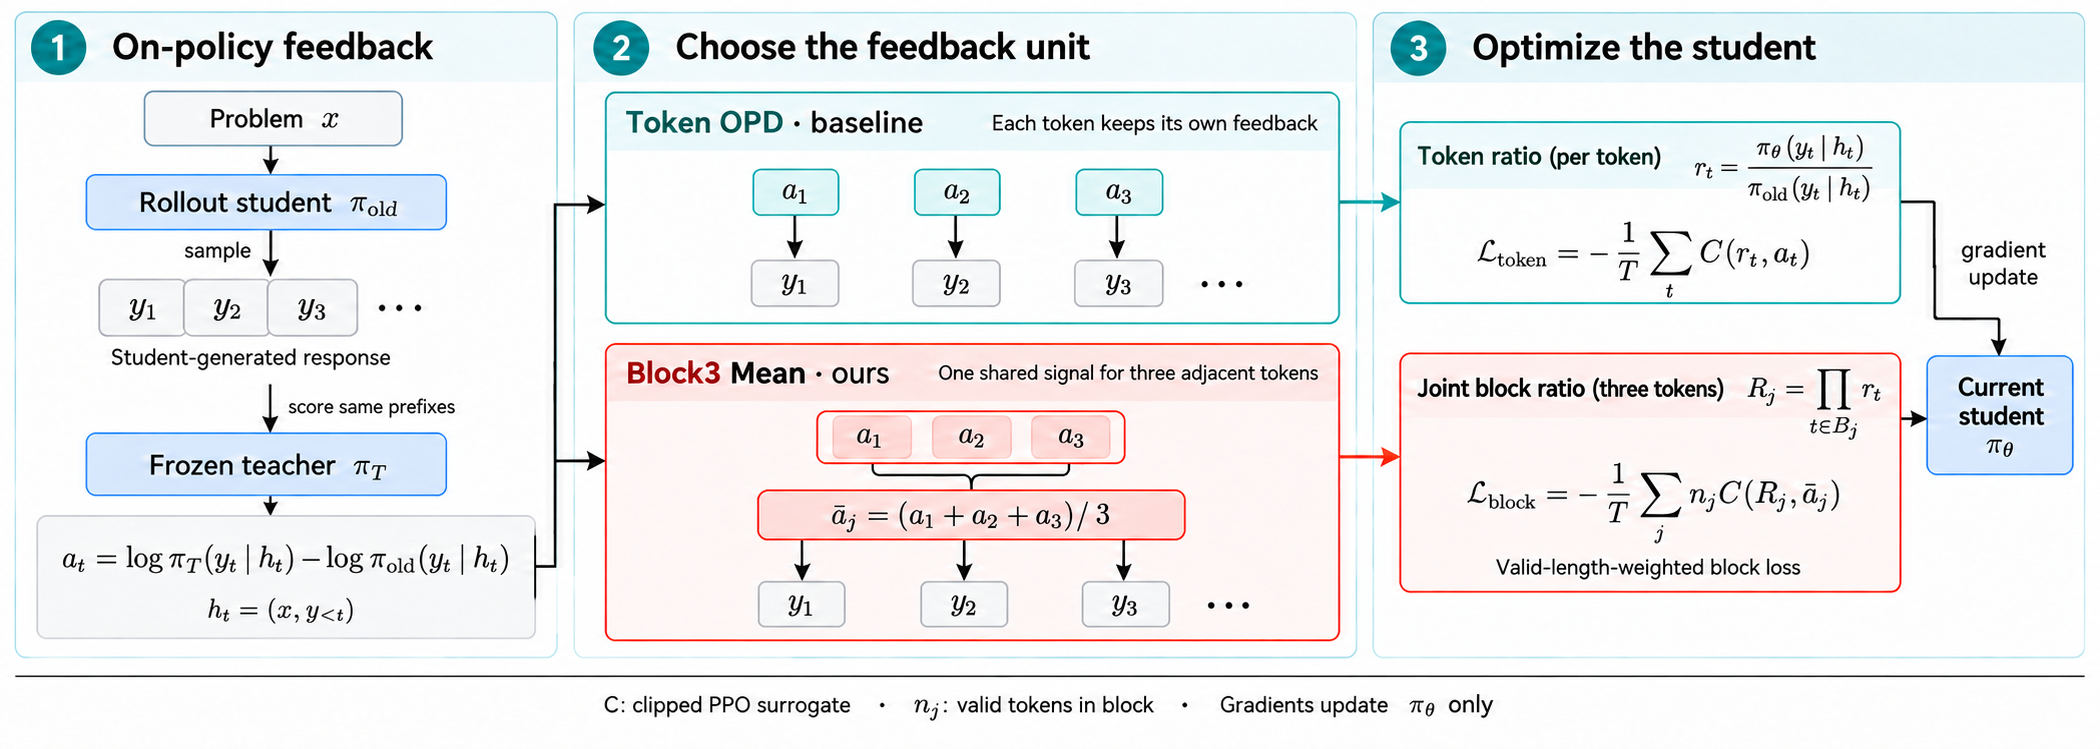
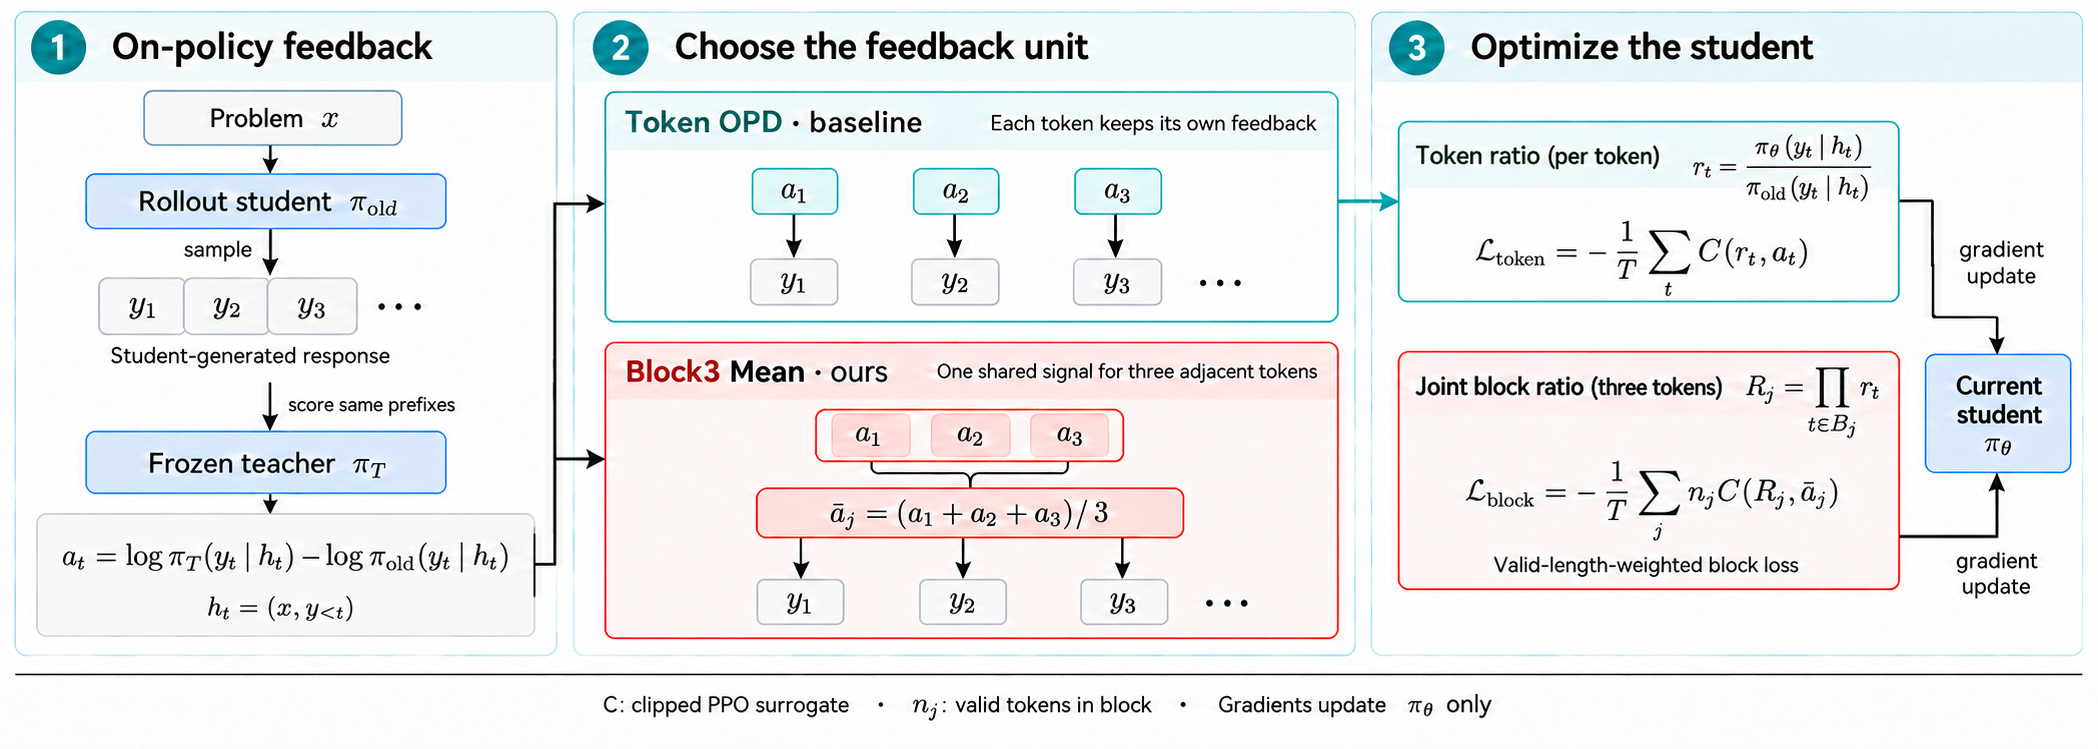
docs: label block gradient update in existing figure one

diff --git a/paper/iclr2027/internal/figure_provenance.md b/paper/iclr2027/internal/figure_provenance.md
@@ -9,9 +9,11 @@
 但没有复制其自教师或privileged-context机制：本研究使用独立冻结教师。
 中心画出逐token独立反馈与三token均值共享的区别，右侧保留联合ratio及有效长度加权loss。
 图注注明两种目标分开训练、反馈停止梯度、mask尾块以及完整轨迹采样后更新。
-生成使用内置OpenAI image_gen，进行了两次针对性连线/标签修正；最终检查公式、token数量、
+生成使用内置OpenAI image_gen，进行了三次针对性连线/标签修正；最终检查公式、token数量、
 箭头来源、标签边界和论文缩放后的可读性。图中不包含性能数字或效率提升主张。
 本次提示词规范记录在`internal/figure1_redesign_20260926.md`。
+第三次修正直接补齐Block3到当前学生连线的`gradient update`标注，与Token分支对称，
+只调整该连线路径以容纳文字。现有图、双语PDF及源码包原位更新，没有新增交付版本目录。
 所有性能曲线、训练曲线、热图与表必须从实际数据程序化生成，不使用图像模型造数。
 
 scientific-schematics脚本需要未配置的OpenRouter凭证，概念图改用当前可用图像生成工具。

diff --git a/paper/iclr2027/internal/figure1_redesign_20260926.md b/paper/iclr2027/internal/figure1_redesign_20260926.md
@@ -26,6 +26,10 @@
 Per-token feedback标签。保留所有数学符号及其他结构。最终图使用同一英文数学标记，
 中英文正文各自提供对应图注；旧交付PDF不覆盖，新PDF放入20260926图1更新目录。
 
+用户随后指出Block3到学生的连线缺少与Token分支对应的标注。第三次局部修改只将
+该短箭头改为从block loss右侧进入学生框底部的折线，补上相同的`gradient update`，
+避免文字重叠；其余布局和公式不变。20260926目录中的现有图、PDF和源码包原位覆盖更新。
+
 ## 科学含义检查
 
 - 教师不产生学生的rollout；无privileged information输入。

diff --git a/docs/results/2026-09-26-paper-figure1-redesign.md b/docs/results/2026-09-26-paper-figure1-redesign.md
@@ -29,3 +29,6 @@
 包含英文PDF、中文PDF、图1PNG、匿名源码ZIP及SHA-256清单；9月23日交付不覆盖。
 Windows路径：`\\wsl.localhost\Ubuntu\home\tyf\paper\outputs\iclr2027_20260926_figure1`。
 最近100步实验及正在运行的消融尚未纳入该PDF。
+
+同日按用户反馈补齐Block3分支到当前学生的`gradient update`标签，仅局部调整右侧连线，
+不重做图的结构。直接覆盖此交付目录中的图、双语PDF和源码包，并刷新SHA-256清单。
